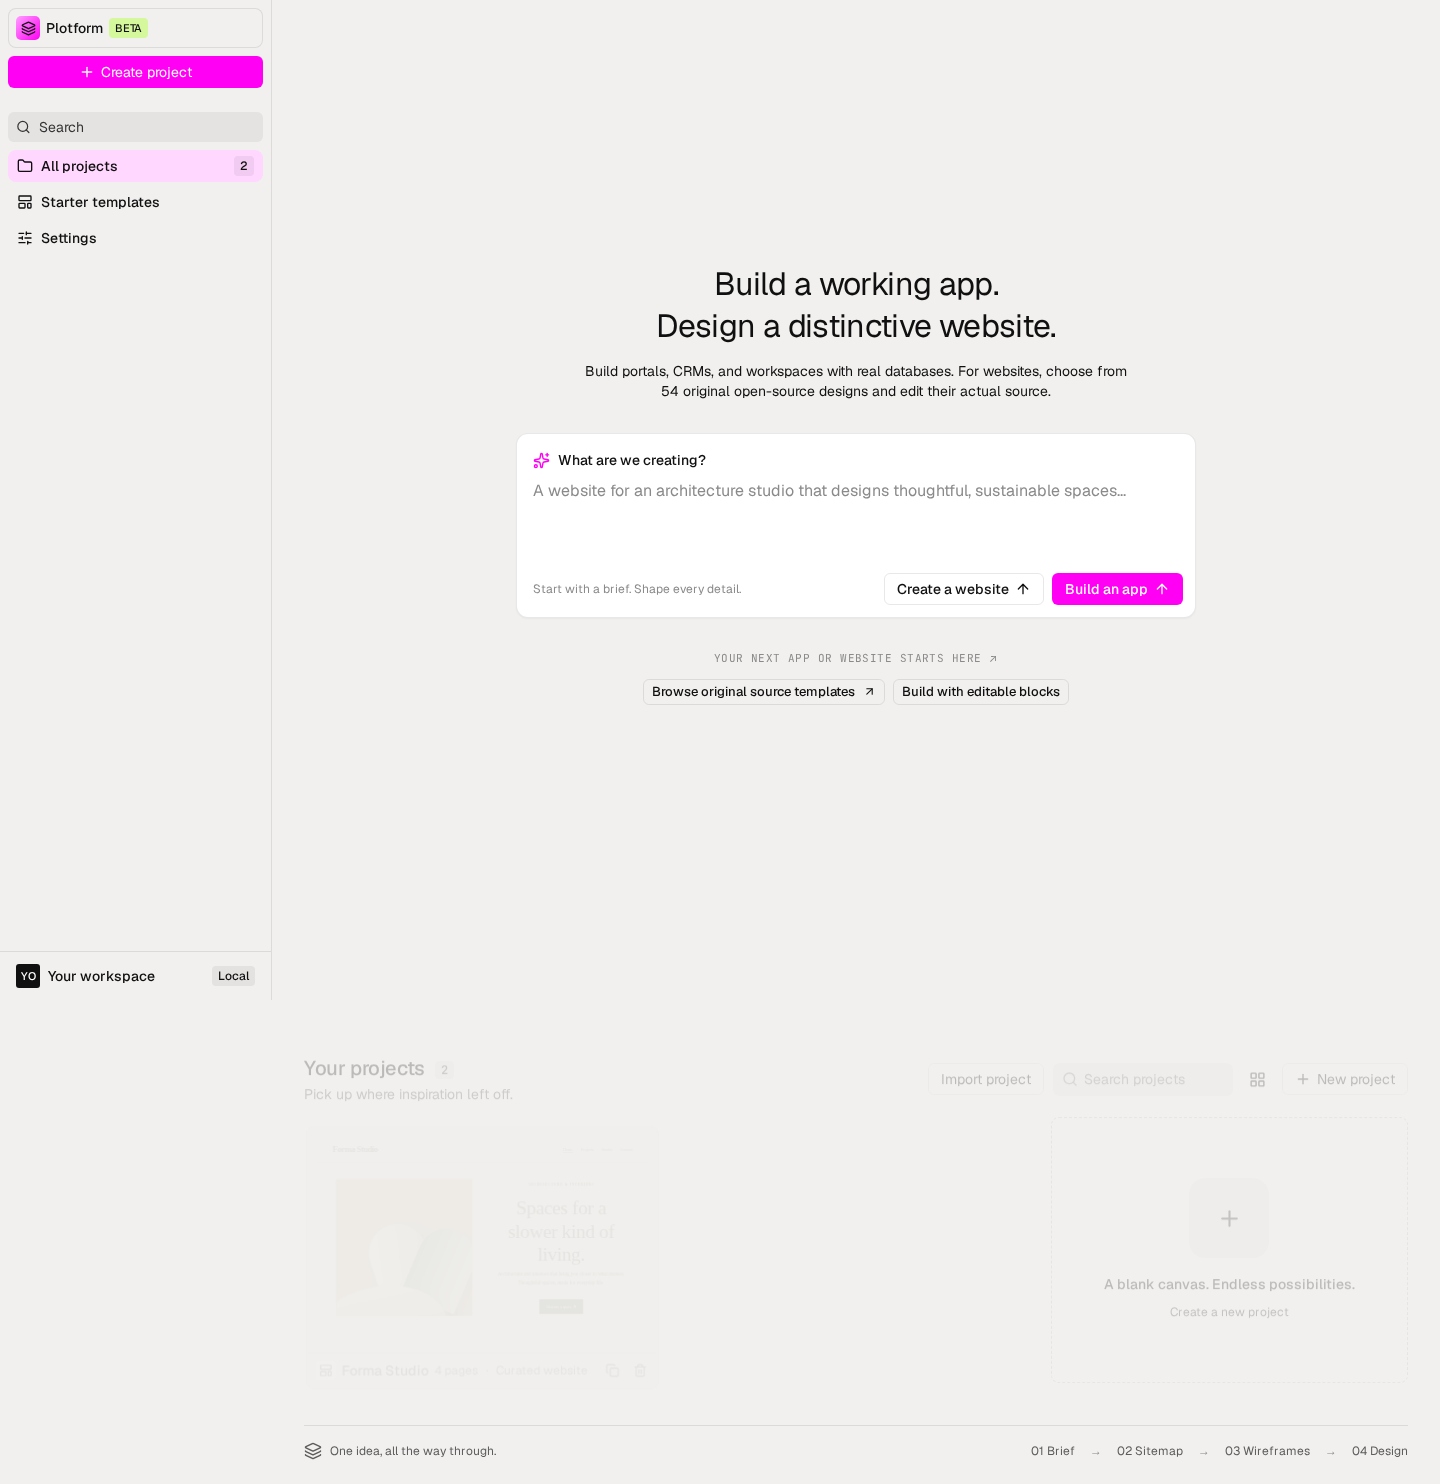
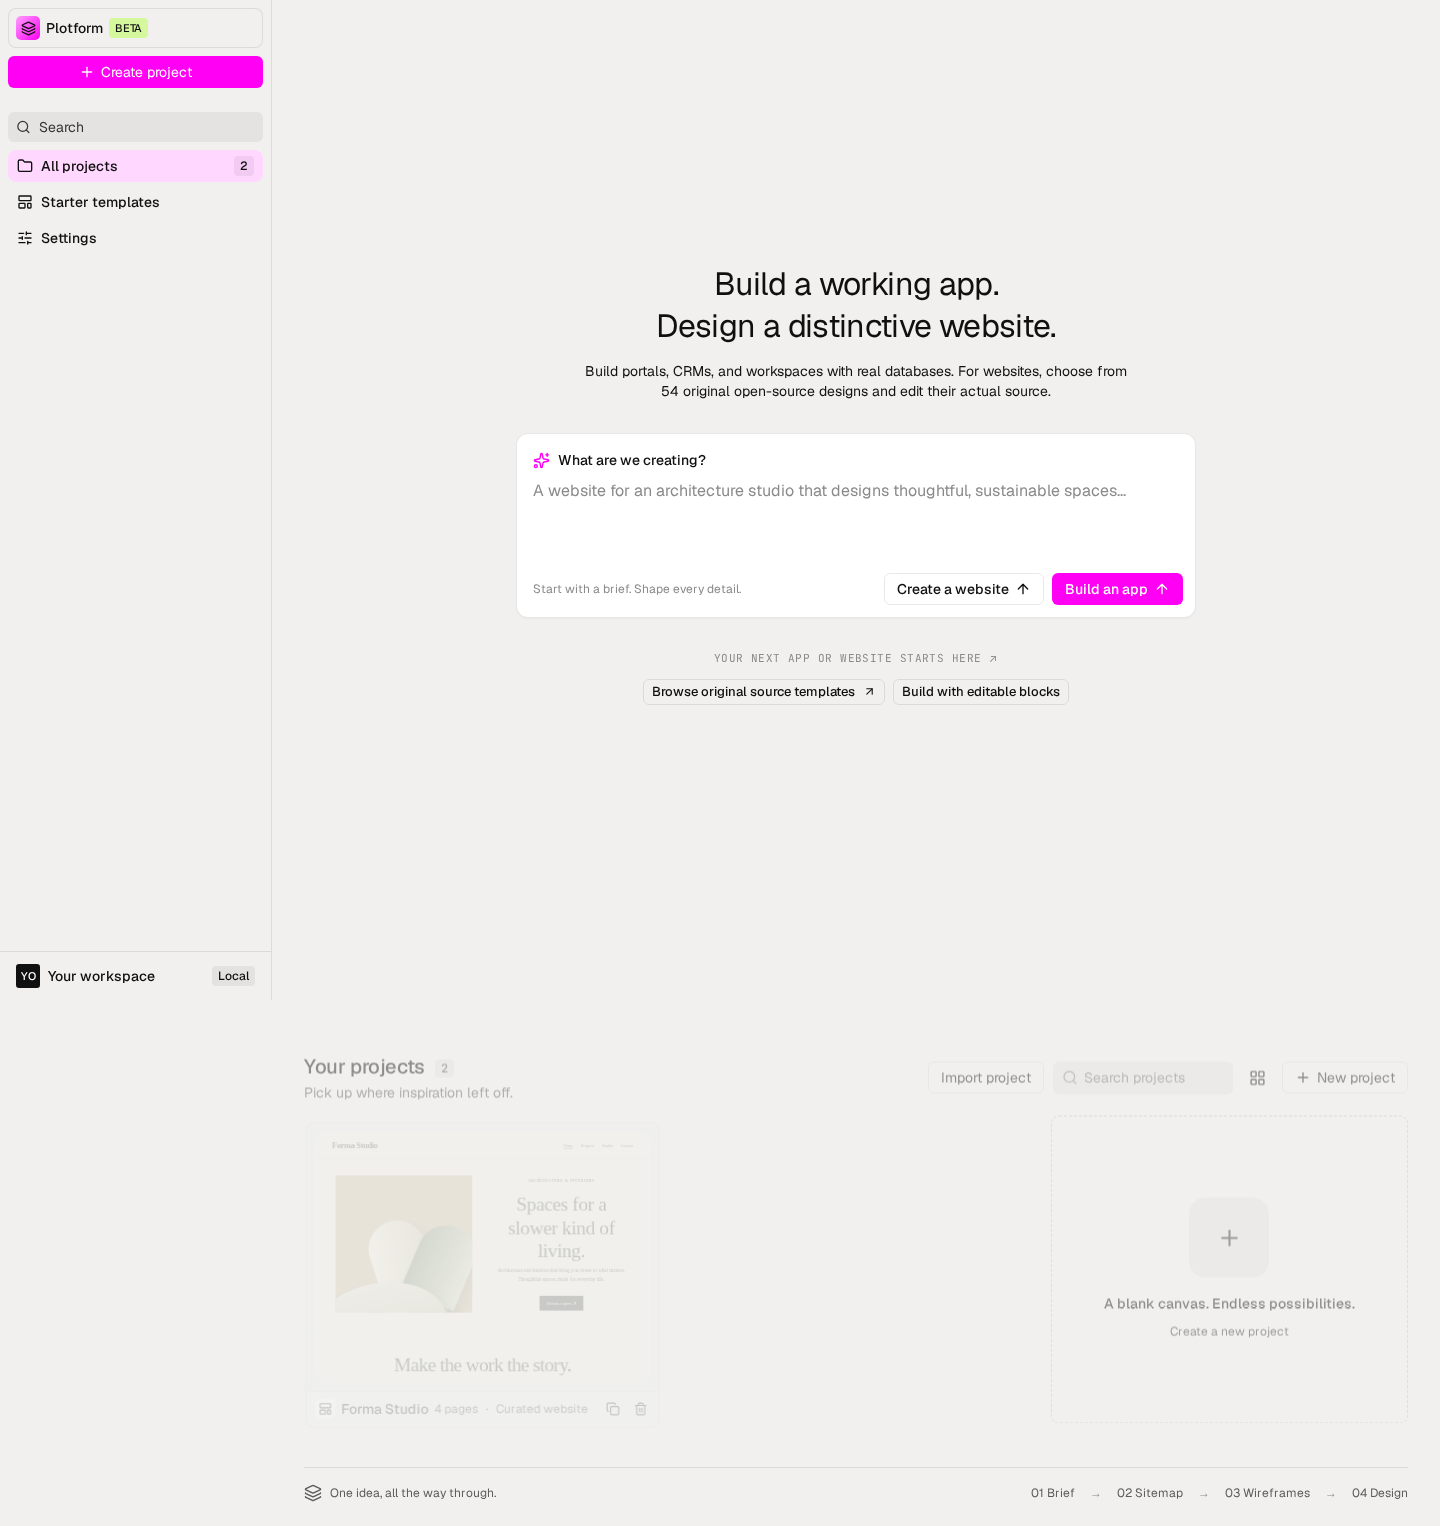
Make project card previews taller
The preview tile keeps a 4:3 shape instead of a fixed 211px, so it grows
with the card and shows more of the page.

diff --git a/src/style.css b/src/style.css
@@ -639,7 +639,7 @@ small {
 }
 .project-tile {
   display: block;
-  height: 211px;
+  aspect-ratio: 4 / 3;
   overflow: hidden;
   border-radius: 12px;
   background: var(--bg-raised);
